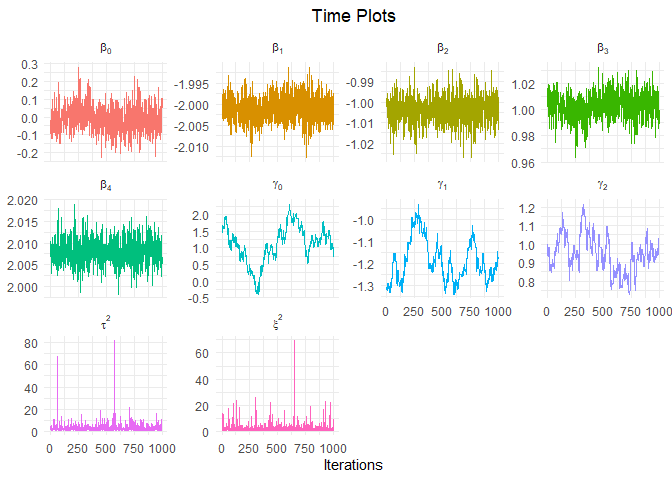
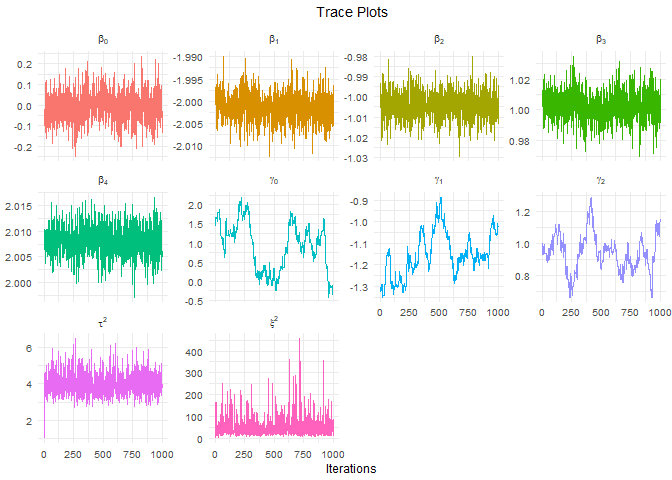
updated readme

diff --git a/README.md b/README.md
@@ -81,18 +81,18 @@ summary(fit, type = "mcmc_ridge")
 ## -3.29800 -0.38660  0.11770 -0.01354  0.57410  2.54600 
 ## 
 ## Location coefficients (identity link function):
-##            Mean     2.5%      50%  97.5%
-## beta_0 -0.01120 -0.14065 -0.01112  0.128
-## beta_1 -2.00116 -2.00687 -2.00117 -1.995
-## beta_2 -1.00388 -1.01704 -1.00368 -0.992
-## beta_3  1.00306  0.98431  1.00290  1.021
-## beta_4  2.00800  2.00261  2.00795  2.014
+##             Mean      2.5%       50%  97.5%
+## beta_0 -0.003064 -0.152295 -0.001275  0.132
+## beta_1 -2.001501 -2.007618 -2.001631 -1.995
+## beta_2 -1.004306 -1.017451 -1.004198 -0.991
+## beta_3  1.001918  0.984266  1.001849  1.022
+## beta_4  2.008085  2.002211  2.007997  2.014
 ## 
 ## Scale coefficients (log link function):
 ##            Mean    2.5%     50%  97.5%
-## gamma_0  1.1131 -0.1638  1.1506  2.021
-## gamma_1 -1.1902 -1.3266 -1.2032 -0.991
-## gamma_2  0.9449  0.7761  0.9413  1.158
+## gamma_0  0.9257 -0.1398  1.0384  1.982
+## gamma_1 -1.1528 -1.3285 -1.1598 -0.956
+## gamma_2  0.9403  0.7134  0.9438  1.185
 ## 
 ## Residual degrees of freedom: 42 
 ## Log-likelihood: 32.28 
@@ -108,16 +108,16 @@ summary_complete(fit)
 ## # A tibble: 10 x 6
 ##    Parameter `5% Quantile` `Posterior Mean` `Posterior Median` `95% Quantile`
 ##    <chr>             <dbl>            <dbl>              <dbl>          <dbl>
-##  1 beta_0          -0.120           -0.0112            -0.0111          0.103
-##  2 beta_1          -2.01            -2.00              -2.00           -2.00 
-##  3 beta_2          -1.01            -1.00              -1.00           -0.994
-##  4 beta_3           0.987            1.00               1.00            1.02 
-##  5 beta_4           2.00             2.01               2.01            2.01 
-##  6 gamma_0          0.0862           1.11               1.15            1.93 
-##  7 gamma_1         -1.31            -1.19              -1.20           -1.01 
-##  8 gamma_2          0.783            0.945              0.941           1.11 
-##  9 tau^2            0.967            3.13               2.21            7.93 
-## 10 xi^2             0.459            2.19               1.33            5.97 
+##  1 beta_0           -0.123         -0.00306           -0.00127          0.107
+##  2 beta_1           -2.01          -2.00              -2.00            -2.00 
+##  3 beta_2           -1.01          -1.00              -1.00            -0.994
+##  4 beta_3            0.987          1.00               1.00             1.02 
+##  5 beta_4            2.00           2.01               2.01             2.01 
+##  6 gamma_0          -0.106          0.926              1.04             1.84 
+##  7 gamma_1          -1.31          -1.15              -1.16            -0.984
+##  8 gamma_2           0.750          0.940              0.944            1.13 
+##  9 tau^2             3.14           4.01               3.94             5.09 
+## 10 xi^2             15.9           51.0               37.4            132.   
 ## # ... with 1 more variable: Standard Deviation <dbl>
 ```
 
@@ -151,14 +151,14 @@ summary_complete(fit) %>%
 ## # A tibble: 8 x 5
 ##   Parameter mcmc_ridge     mcmc     mle truth
 ##   <chr>          <dbl>    <dbl>   <dbl> <dbl>
-## 1 beta_0       -0.0112 -0.00762 -0.0217     0
-## 2 beta_1       -2.00   -2.00    -2.00      -2
-## 3 beta_2       -1.00   -1.00    -1.00      -1
-## 4 beta_3        1.00    1.00     1.00       1
-## 5 beta_4        2.01    2.01     2.01       2
-## 6 gamma_0       1.11    1.17     1.44       0
-## 7 gamma_1      -1.19   -1.18    -1.31      -1
-## 8 gamma_2       0.945   0.920    0.999      1
+## 1 beta_0      -0.00306 -0.00762 -0.0217     0
+## 2 beta_1      -2.00    -2.00    -2.00      -2
+## 3 beta_2      -1.00    -1.00    -1.00      -1
+## 4 beta_3       1.00     1.00     1.00       1
+## 5 beta_4       2.01     2.01     2.01       2
+## 6 gamma_0      0.926    1.17     1.44       0
+## 7 gamma_1     -1.15    -1.18    -1.31      -1
+## 8 gamma_2      0.940    0.920    0.999      1
 ```
 
 The estimates for *β*<sub>1</sub> up to *β*<sub>4</sub> are identical in
@@ -167,13 +167,13 @@ values. This behaviour is somewhat expected, since the *β* vector is
 drawn from a closed form multivariate normal distribution with
 independent samples across iterations of the MCMC sampler.
 
-The results for the scale parameter *γ* show a greater variation between
-the models and are therefore more interesting to analyze. The Maximum
-Likelihood approach is able to recover the true / data generating value
-of *γ*<sub>2</sub>, while the MCMC sampler with Ridge penalty performs
-best for estimating *γ*<sub>1</sub>. All three models fail to identify
-the correct intercept parameter *γ*<sub>0</sub>, which, however, is
-often of minor interest.
+The results for the scale parameter **γ** show a greater variation
+between the models and are therefore more interesting to analyze. The
+Maximum Likelihood approach is able to recover the true / data
+generating value of *γ*<sub>2</sub>, while the MCMC sampler with Ridge
+penalty performs best for estimating *γ*<sub>1</sub>. All three models
+fail to identify the correct intercept parameter *γ*<sub>0</sub>, which,
+however, is often of minor interest.
 
 Simulations across different data sets and sample sizes show similar
 patterns: If the data is generated according to the mathematical model
@@ -184,17 +184,17 @@ underlying model used for simulation deviates from the Gaussian
 location-scale regression model, the `mle` results are, unsurprisingly,
 worse than both of the more flexible MCMC methods.
 
-The Markov Chain Monte Carlo samples for *γ* based on the Metropolis -
+The Markov Chain Monte Carlo samples for **γ** based on the Metropolis -
 Hastings algorithm implemented in the `mcmc_ridge()` function are
 strongly correlated, even though the acceptance rate of the proposed
 values is reasonable:
 
 ``` r
 fit$mcmc_ridge$acceptance_rate
-## [1] 0.427
+## [1] 0.408
 ```
 
-This value of roughly 43% indicates that the variance of the proposal
+This value of roughly 41% indicates that the variance of the proposal
 distribution is chosen appropriately.
 
 ## Graphical Analysis
@@ -204,17 +204,17 @@ chains as well as the autocorrelations are the functions
 `diagnostic_plots()` for a single Markov Chain and `mult_plot()` for
 combining multiple chains.
 
-A quick overview can be gained by collecting the corresponding time
+A quick overview can be gained by collecting the corresponding trace
 plots for all posterior coefficients.
 
 ``` r
-mult_plot(fit, type = "time", free_scale = TRUE, latex = TRUE)
+mult_plot(fit, type = "trace", free_scale = TRUE, latex = TRUE)
 ```
 
 <img src="man/figures/README-unnamed-chunk-8-1.png" width="100%" />
 
-The time plots for the *β* coefficients indicate convergence and confirm
-the stable posterior estimates from the previous section.
+The trace plots for the **β** coefficients indicate convergence and
+confirm the stable posterior estimates from the previous section.
 
 The prior variance parameters *τ*<sup>2</sup> and *ξ*<sup>2</sup> are
 strictly positive and thus more adequately displayed on the logarithmic
@@ -230,11 +230,11 @@ mult_plot(
 
 <img src="man/figures/README-unnamed-chunk-9-1.png" width="100%" />
 
-Just like the *β* samples, these are drawn from closed form full
+Just like the **β** samples, these are drawn from closed form full
 conditional distributions.
 
 Finally, we focus on the samples for the scale parameter *γ*. Here, the
-time plots do not indicate convergence to the posterior distribution.
+trace plots do not indicate convergence to the posterior distribution.
 Thus, we increase the number of simulations to 10000, which also allows
 the inclusion of a Burn - In Phase as well as a thinning factor while
 still maintaining a sufficient sample size to estimate posterior
@@ -242,7 +242,6 @@ quantities:
 
 ``` r
 set.seed(4321)
-
 fit <- fit %>%
   mcmc_ridge(num_sim = 10000)
 ```
@@ -263,7 +262,7 @@ samples$scale[, 3, drop = FALSE] %>%
 
 Even a thinning factor of 30, i.e. only every 30th observation is kept
 in the sample, does not get rid of the autocorrelation. Yet, the
-posterior density seems to be approximately normal and the time plot
+posterior density seems to be approximately normal and the trace plot
 indicates a decent exploration of the posterior space.
 
 These findings serve as a great starting point for a more in-depth
